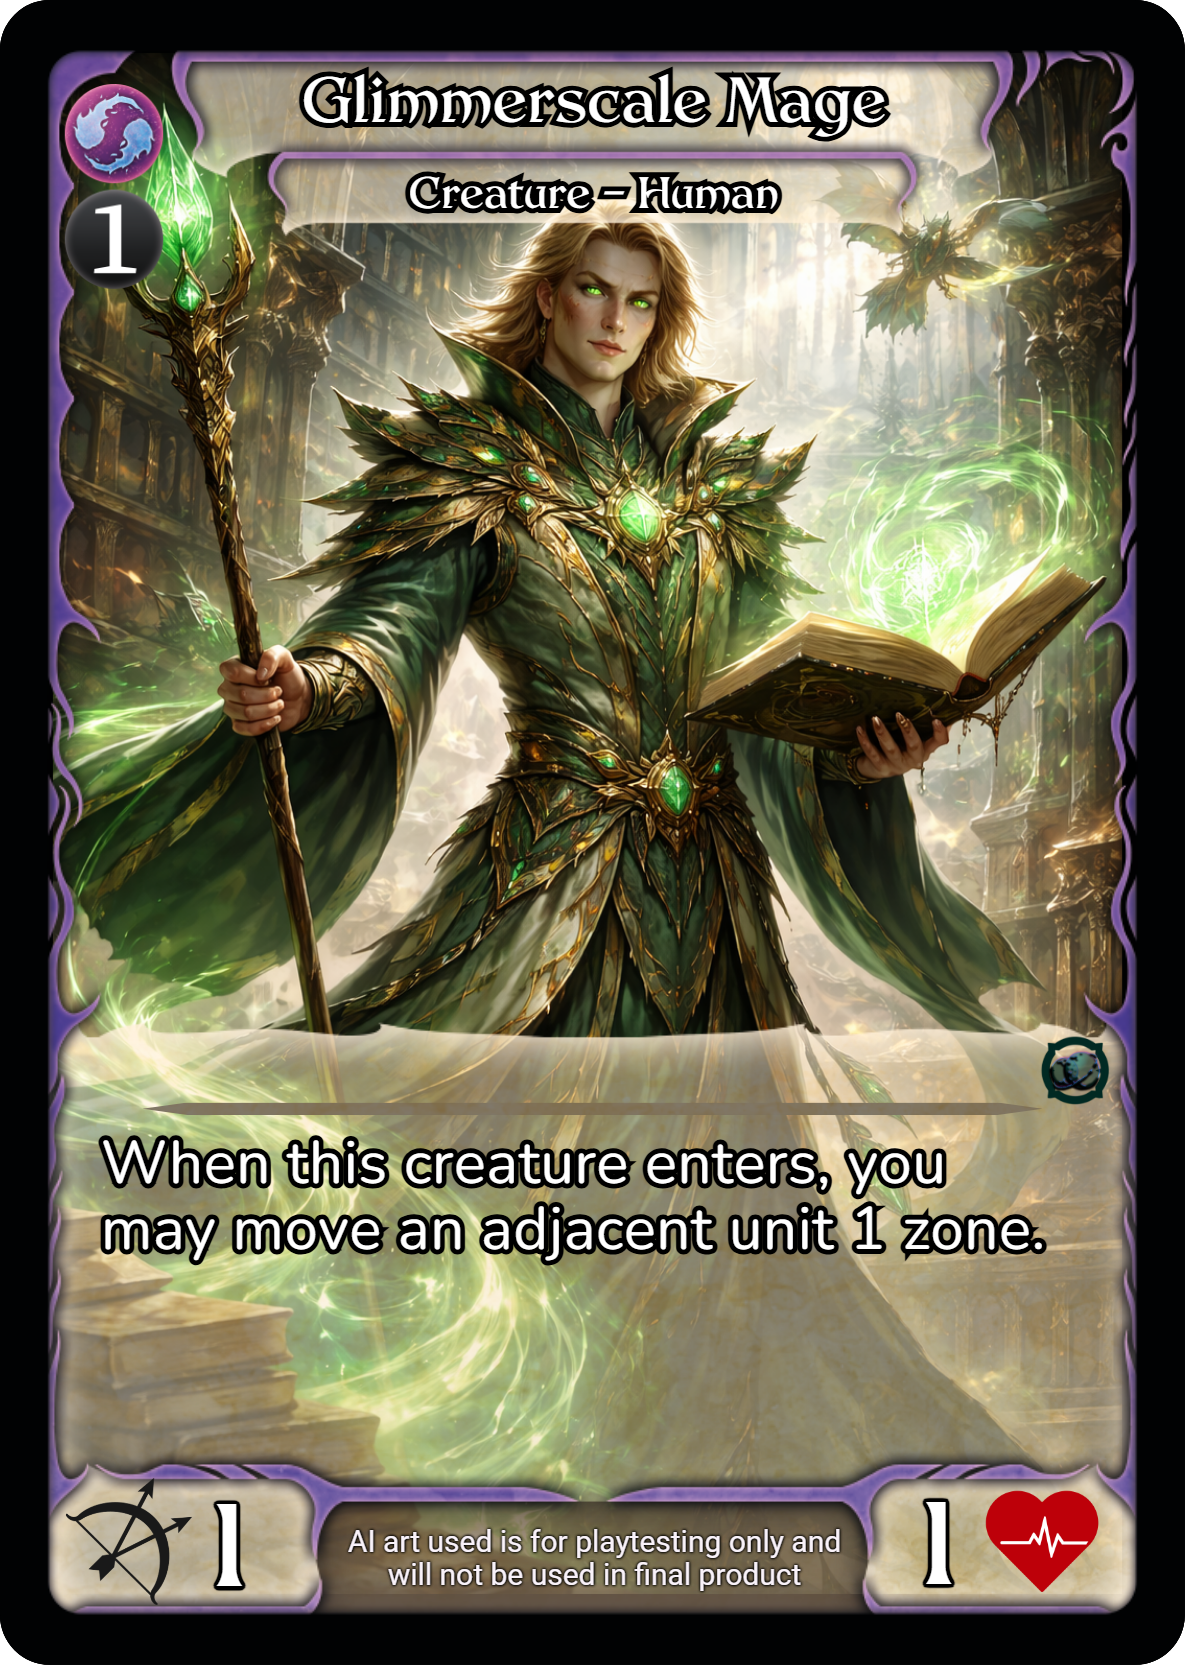
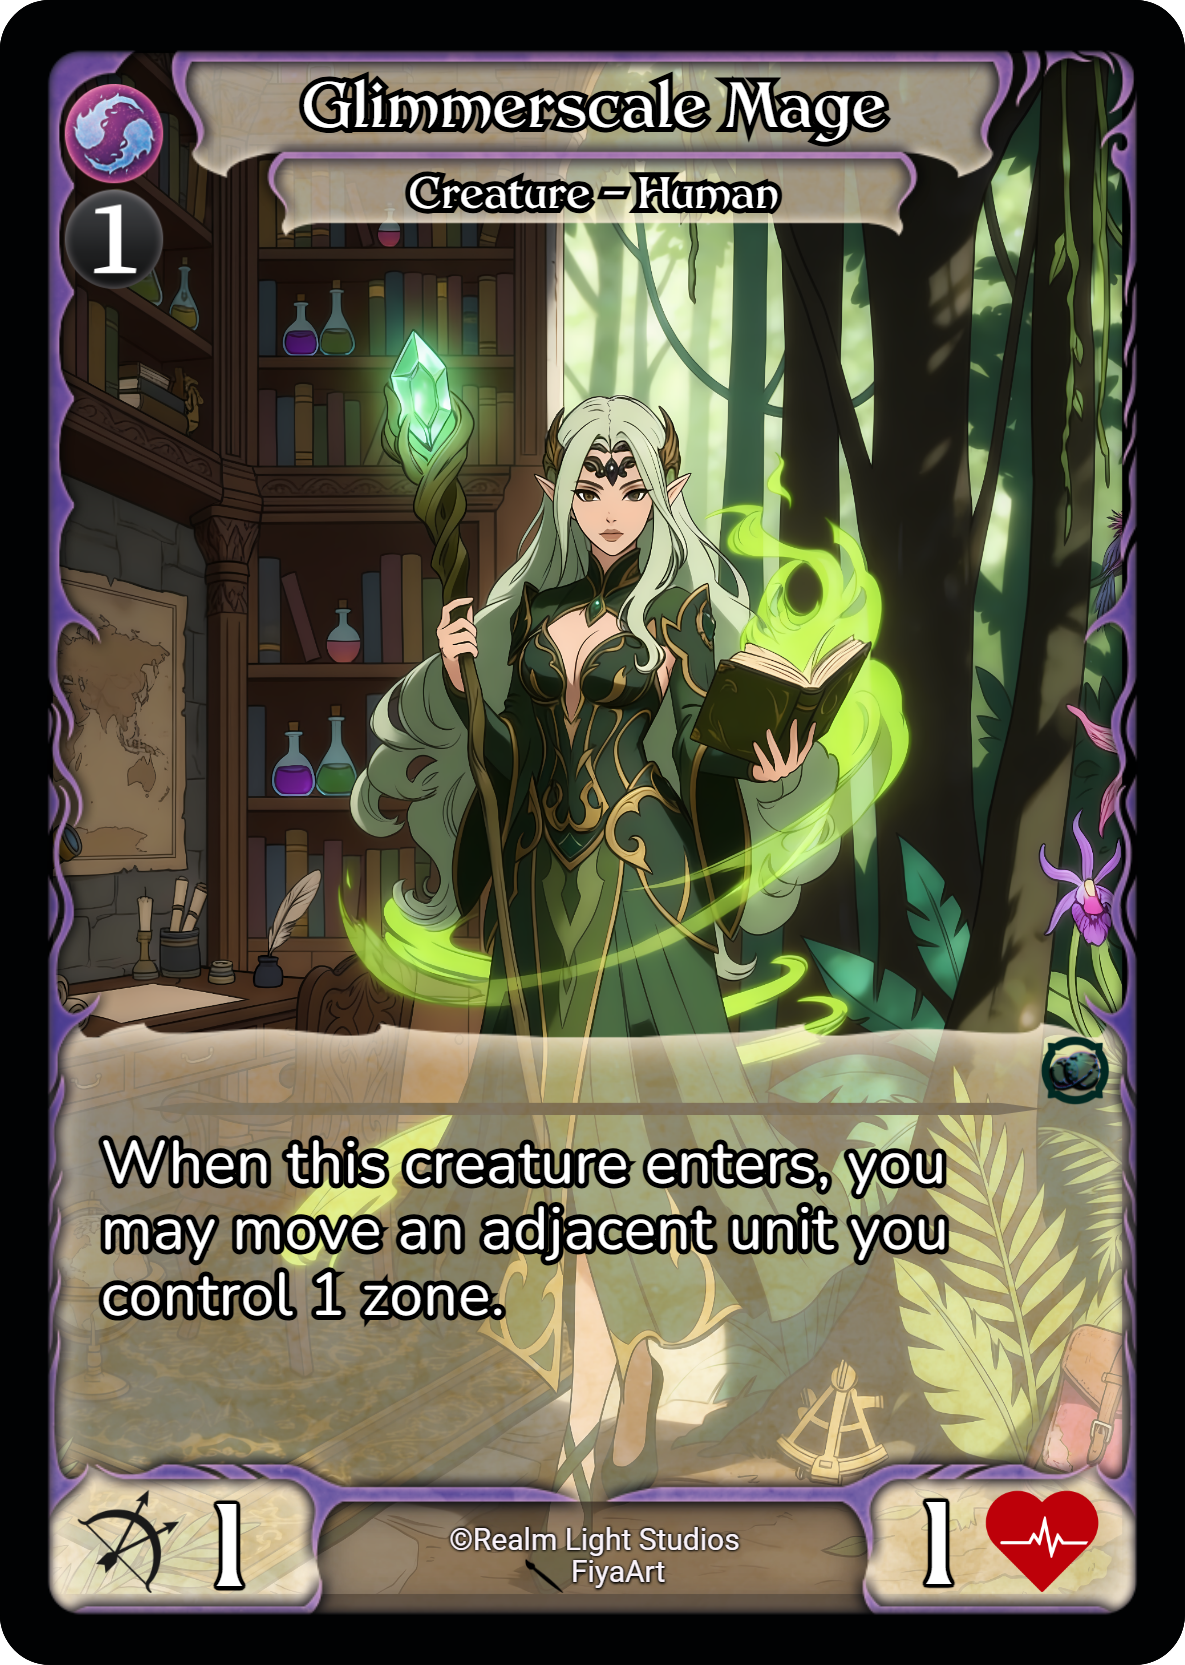
Updating cards with new card art

diff --git a/card-gallary/index.html b/card-gallary/index.html
@@ -734,7 +734,7 @@
             { number:73,  name:"Force of Aggression",           file:"Force_of_Aggression.png",         type:"Creature",  subtype:"Elemental",              rarity:"Ascendant Rare",    color:"P", cost:7, power:6, health:6, range:1 },
             { number:74,  name:"Gather the Family",             file:"Gather_the_Family.png",           type:"Terrain",   subtype:"Field",                  rarity:"Uncommon",    color:"P", cost:5 },
             { number:75,  name:"Goading Orc",                   file:"Goading_Orc.png",                 type:"Creature",  subtype:"Orc",                    rarity:"Uncommon",    color:"P", cost:3, power:5, health:2, range:1 },
-            { number:76,  name:"Goblin Invention",              file:"Goblin_Invention.png",            type:"Spell",     subtype:"Reaction",               rarity:"Common",    color:"P", cost:2 },
+            { number:76,  name:"Runespark Explosive",              file:"Runespark_Explosive.png",            type:"Spell",     subtype:"Reaction",               rarity:"Common",    color:"P", cost:2 },
             { number:77,  name:"Grimrok Warlord",               file:"Grimrok_Warlord.png",             type:"Creature",  subtype:"Goblin",                 rarity:"Fabled Rare",    color:"P", cost:4, power:4, health:3, range:1 },
             { number:78,  name:"Hao Qui, the Black Scar",       file:"Hao_Qui,_the_Black_Scar.png",     type:"Creature",  subtype:"Red Panda Ape",          rarity:"Ascendant Rare",    color:"P", cost:6, power:6, health:6, range:1 },
             { number:79,  name:"Heat Up",                       file:"Heat_Up.png",                     type:"Spell",     subtype:"Reaction",               rarity:"Common",    color:"P", cost:2 },

diff --git a/lore/index.html b/lore/index.html
@@ -722,8 +722,8 @@
           <p>Two of the first ancient dragons of Wyrmreach, seeking to expand their power and influence, crossed into Aetherwyn unaware that they would one day need to return. These dragons were Gaida the Creator and Rogoth the Ancient.</p>
           <div class="realm-visual">
             <div class="realm-img-slot" data-placeholder="Image 1" style="aspect-ratio: 2/3;">
-            <img src="../Assets/Aetherwyn/Gadia.png" alt="Aetherwyn — Image 1">
-            <p class="image-caption">Gaida, the Creator - AI art is temporary only and will be replaced</p>
+            <img src="../Assets/Aetherwyn/Gaida.png" alt="Aetherwyn — Image 1">
+            <p class="image-caption">Gaida, the Creator - Art by Catherine Highton</p>
           </div>
           </div>
           <p>Gaida, a dragon infused with the essence of nature, was immediately revered as a god among the elven people, for she embodied their culture and their deep affinity for the natural world. Meanwhile, Rogoth—with obsidian scales and dark, burning red eyes—settled in the mountains, ruling the goblins and orcs through fear.</p>
